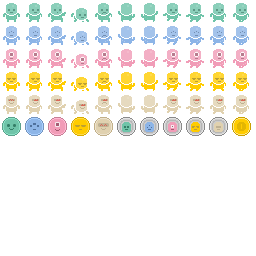
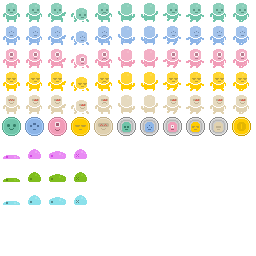
Added abstract enemies Added Slime

diff --git a/core/src/ga/uabart/gyaya/Sprites/Slime.java b/core/src/ga/uabart/gyaya/Sprites/Slime.java
@@ -1,0 +1,66 @@
+package ga.uabart.gyaya.Sprites;
+
+import com.badlogic.gdx.graphics.g2d.Animation;
+import com.badlogic.gdx.graphics.g2d.TextureRegion;
+import com.badlogic.gdx.math.Vector2;
+import com.badlogic.gdx.physics.box2d.BodyDef;
+import com.badlogic.gdx.physics.box2d.CircleShape;
+import com.badlogic.gdx.physics.box2d.FixtureDef;
+import com.badlogic.gdx.physics.box2d.PolygonShape;
+import com.badlogic.gdx.utils.Array;
+import ga.uabart.gyaya.Gyaya;
+import ga.uabart.gyaya.Screens.PlayScreen;
+
+/**
+ * Created by Arthur on 11/27/2015.
+ */
+public class Slime extends Enemy {
+    private  float stateTime;
+    private Animation walkAnimation;
+    private Array<TextureRegion> frames;
+    public Slime(PlayScreen screen, float x, float y) {
+        super(screen, x, y);
+        frames = new Array<TextureRegion>();
+        for (int i = 0; i < 3 ; i++) {
+            frames.add(new TextureRegion(screen.getAtlas().findRegion("SlimePink"), i*23, 0, 23, 23 ));
+            walkAnimation = new Animation(0.2f, frames);
+            stateTime = 0;
+            setBounds(getX(), getY(), 16 / Gyaya.PPM, 16 / Gyaya.PPM);
+        }
+    }
+
+    public void update(float delta){
+        stateTime += delta;
+        setPosition(b2body.getPosition().x - getWidth() / 2, b2body.getPosition().y - getHeight() / 2 + 2 / Gyaya.PPM);
+        setRegion(walkAnimation.getKeyFrame(stateTime, true));
+    }
+
+    @Override
+    protected void defineEnemy() {
+        BodyDef bodyDef = new BodyDef();
+        bodyDef.position.set(getX(), getY());
+        bodyDef.type = BodyDef.BodyType.DynamicBody;
+        b2body = world.createBody(bodyDef);
+
+        FixtureDef fixtureDef = new FixtureDef();
+        CircleShape shape = new CircleShape();
+        shape.setRadius(4f / Gyaya.PPM);
+        fixtureDef.filter.categoryBits = Gyaya.ENEMY_BIT;
+        fixtureDef.filter.maskBits = Gyaya.GROUND_BIT | Gyaya.BRICK_BIT | Gyaya.COIN_BIT |
+                Gyaya.ENEMY_BIT | Gyaya.OBJECT_BIT | Gyaya.PLAYER_BIT;
+        fixtureDef.shape = shape;
+        b2body.createFixture(fixtureDef);
+
+        PolygonShape head = new PolygonShape();
+        Vector2[] vertice = new Vector2[4];
+        vertice[0] = new Vector2(-3.5f, 4.5f).scl(1 / Gyaya.PPM);
+        vertice[1] = new Vector2(3.5f, 4.5f).scl(1 / Gyaya.PPM);
+        vertice[2] = new Vector2(-2f, 2f).scl(1 / Gyaya.PPM);
+        vertice[3] = new Vector2(2f, 2f).scl(1 / Gyaya.PPM);
+        head.set(vertice);
+        fixtureDef.shape = head;
+        fixtureDef.restitution = 0.5f;
+        fixtureDef.filter.categoryBits = Gyaya.ENEMY_HEAD_BIT;
+        b2body.createFixture(fixtureDef).setUserData(this);
+    }
+}

diff --git a/core/src/ga/uabart/gyaya/Sprites/Player.java b/core/src/ga/uabart/gyaya/Sprites/Player.java
@@ -1,16 +1,12 @@
 package ga.uabart.gyaya.Sprites;
 
-import com.badlogic.gdx.Gdx;
 import com.badlogic.gdx.graphics.g2d.Animation;
 import com.badlogic.gdx.graphics.g2d.Sprite;
 import com.badlogic.gdx.graphics.g2d.TextureRegion;
-import com.badlogic.gdx.graphics.g3d.particles.influencers.ColorInfluencer;
 import com.badlogic.gdx.math.MathUtils;
-import com.badlogic.gdx.math.RandomXS128;
 import com.badlogic.gdx.math.Vector2;
 import com.badlogic.gdx.physics.box2d.*;
 import com.badlogic.gdx.utils.Array;
-import com.badlogic.gdx.utils.Logger;
 import ga.uabart.gyaya.Gyaya;
 import ga.uabart.gyaya.Screens.PlayScreen;
 
@@ -136,7 +132,8 @@ public class Player extends Sprite {
         CircleShape shape = new CircleShape();
         shape.setRadius(8f / Gyaya.PPM);
         fixtureDef.filter.categoryBits = Gyaya.PLAYER_BIT;
-        fixtureDef.filter.maskBits = Gyaya.DEFAULT_BIT | Gyaya.BRICK_BIT | Gyaya.COIN_BIT;
+        fixtureDef.filter.maskBits = Gyaya.GROUND_BIT | Gyaya.BRICK_BIT | Gyaya.COIN_BIT |
+                Gyaya.OBJECT_BIT | Gyaya.ENEMY_BIT | Gyaya.ENEMY_HEAD_BIT ;
 
         fixtureDef.shape = shape;
 

diff --git a/core/src/ga/uabart/gyaya/Sprites/Enemy.java b/core/src/ga/uabart/gyaya/Sprites/Enemy.java
@@ -1,0 +1,23 @@
+package ga.uabart.gyaya.Sprites;
+
+import com.badlogic.gdx.graphics.g2d.Sprite;
+import com.badlogic.gdx.physics.box2d.Body;
+import com.badlogic.gdx.physics.box2d.World;
+import ga.uabart.gyaya.Screens.PlayScreen;
+
+/**
+ * Created by Arthur on 11/27/2015.
+ */
+public abstract class Enemy extends Sprite {
+    protected World world;
+    protected PlayScreen screen;
+    protected Body b2body;
+    public Enemy(PlayScreen screen, float x, float y){
+        this.world = screen.getWorld();
+        this.screen = screen;
+        setPosition(x, y);
+        defineEnemy();
+    }
+
+    protected abstract void defineEnemy();
+}

diff --git a/core/src/ga/uabart/gyaya/Gyaya.java b/core/src/ga/uabart/gyaya/Gyaya.java
@@ -17,11 +17,14 @@ public class Gyaya extends Game {
 
 	public static final float PPM = 100;
 
-	public static final short DEFAULT_BIT = 1;
+	public static final short GROUND_BIT = 1;
 	public static final short PLAYER_BIT = 2;
 	public static final short BRICK_BIT = 4;
 	public static final short COIN_BIT = 8;
 	public static final short DESTROYED_BIT = 16;
+	public static final short OBJECT_BIT = 32;
+	public static final short ENEMY_BIT = 64;
+	public static final short ENEMY_HEAD_BIT = 128;
 
 	public static AssetManager manager;
 
